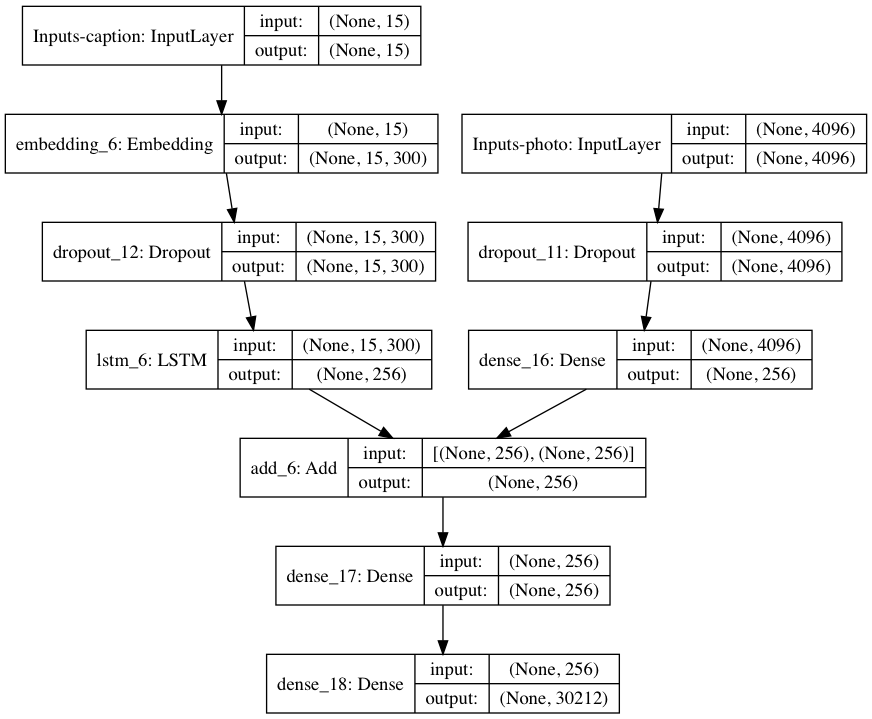
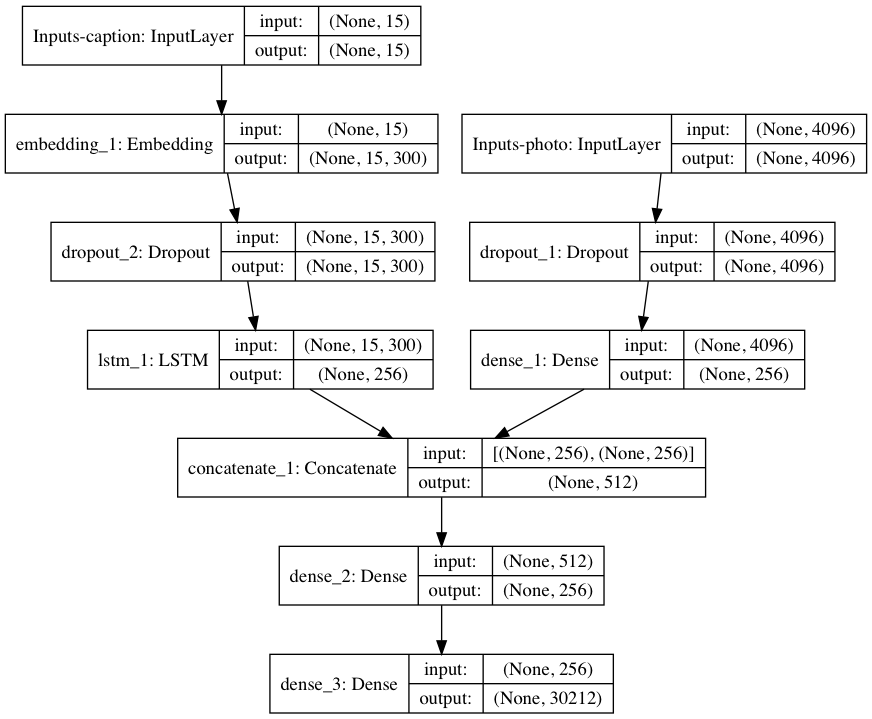
concatenate instead of add, horizontal align

diff --git a/server/templates/index.html b/server/templates/index.html
@@ -5,24 +5,24 @@
 <div>
     <form id="upload-file" method="post" enctype="multipart/form-data">
         <label for="imageUpload" class="upload-label">
-            Choose...
+            Upload image...
         </label>
         <input type="file" name="file" id="imageUpload" accept=".png, .jpg, .jpeg">
     </form>
-
-    <div class="image-section" style="display:none;">
-        <div class="img-preview">
-            <div id="imagePreview">
-            </div>
-        </div>
+    <div class="row">
         <div>
-            <button type="button" class="btn btn-primary btn-lg " id="btn-predict">Predict!</button>
+            <div class="image-section" style="display:none;width:40%">
+                <div class="img-preview">
+                    <div id="imagePreview">
+                    </div>
+                </div>
+                <div>
+                    <button type="button" class="btn btn-primary btn-lg " id="btn-predict">Predict!</button>
+                </div>
+            </div>
+            <div class="loader" style="display:none;"></div>
         </div>
-    </div>
-
-    <div class="loader" style="display:none;"></div>
-
-    <div id="myDiv">
+        <div id="myDiv"> </div>
     </div>
 
 </div>

diff --git a/server/templates/base.html b/server/templates/base.html
@@ -97,14 +97,16 @@
                 var plotData = JSON.parse(JSON.stringify(data));
                 // set up axes and ticks
                 var layout = {
+                title: 'Top Caption Predictions for Image',
                   yaxis: {
+                    title: "Caption",
                     autorange: true,
-                    // showgrid: false,
-                    // zeroline: false,
-                    // showline: false,
                     autotick: true,
                     ticks: '',
                     showticklabels: false
+                  },
+                  xaxis: {
+                    title:"Caption Score"
                   }
                 }
 

diff --git a/server/static/css/main.css b/server/static/css/main.css
@@ -44,6 +44,10 @@ input[type="file"] {
     animation: spin 1s linear infinite;
 }
 
+div {
+    float:left;
+}
+
 @keyframes spin {
     0% { transform: rotate(0deg); }
     100% { transform: rotate(360deg); }

diff --git a/model/train.py b/model/train.py
@@ -35,8 +35,8 @@ argparser.add_argument("--patience", dest = "patience", type = int, default = 2,
                  help = "Early stopping patience.")
 argparser.add_argument("--arch", dest = "arch", type = str, default = "inject",
                  help = "Batch size.")
-argparser.add_argument("--trainable", dest = "trainable", type =int, default = 1,
-                 help = "Whether to train word embeddings. `0` for false, `1` for true.")
+argparser.add_argument("--trainable", dest = "trainable", type =str, default = "False",
+                 help = "Whether to train word embeddings. First letter capitalized (python boolean)")
 
 args = argparser.parse_args()
 # store how many training epochs
@@ -58,7 +58,7 @@ architecture = args.arch
 # get a model factory
 model_factory = model_factories[architecture]
 # should we train the word embeddings? 
-trainable = args.trainable
+trainable = args.trainable == "True"
 
 # global variables
 VOCAB_SIZE = 30212

diff --git a/model/architectures.py b/model/architectures.py
@@ -3,7 +3,7 @@ import numpy as np
 
 from keras.models import Model
 from keras.layers import Input, Dense, LSTM, Embedding, Dropout, RepeatVector, Masking
-from keras.layers.merge import add, concatenate
+from keras.layers.merge import concatenate
 from keras.callbacks import ModelCheckpoint, EarlyStopping
 from keras.optimizers import SGD
 from keras.utils import to_categorical
@@ -30,7 +30,7 @@ def get_merge_model(embedding_matrix,trainable = True):
     drop2 = Dropout(0.5)(embedding)
     lstm1 = LSTM(256)(drop2)
     #merge the LSTM and CNN outputs, and slap a few dense layers on top. 
-    merged = add([dense1, lstm1])
+    merged = concatenate([dense1, lstm1])
     dense2 = Dense(256, activation='relu')(merged)
     outputs = Dense(VOCAB_SIZE, activation='softmax')(dense2)
     # tie it together [image, seq] [word]

diff --git a/server/app.py b/server/app.py
@@ -188,7 +188,8 @@ if __name__ == "__main__":
     load_image_processor()
     load_caption_model()
     load_tokenizer()
-    app.run()
+    http_server = WSGIServer(('', 5000), app)
+    http_server.serve_forever()
 
 
 
